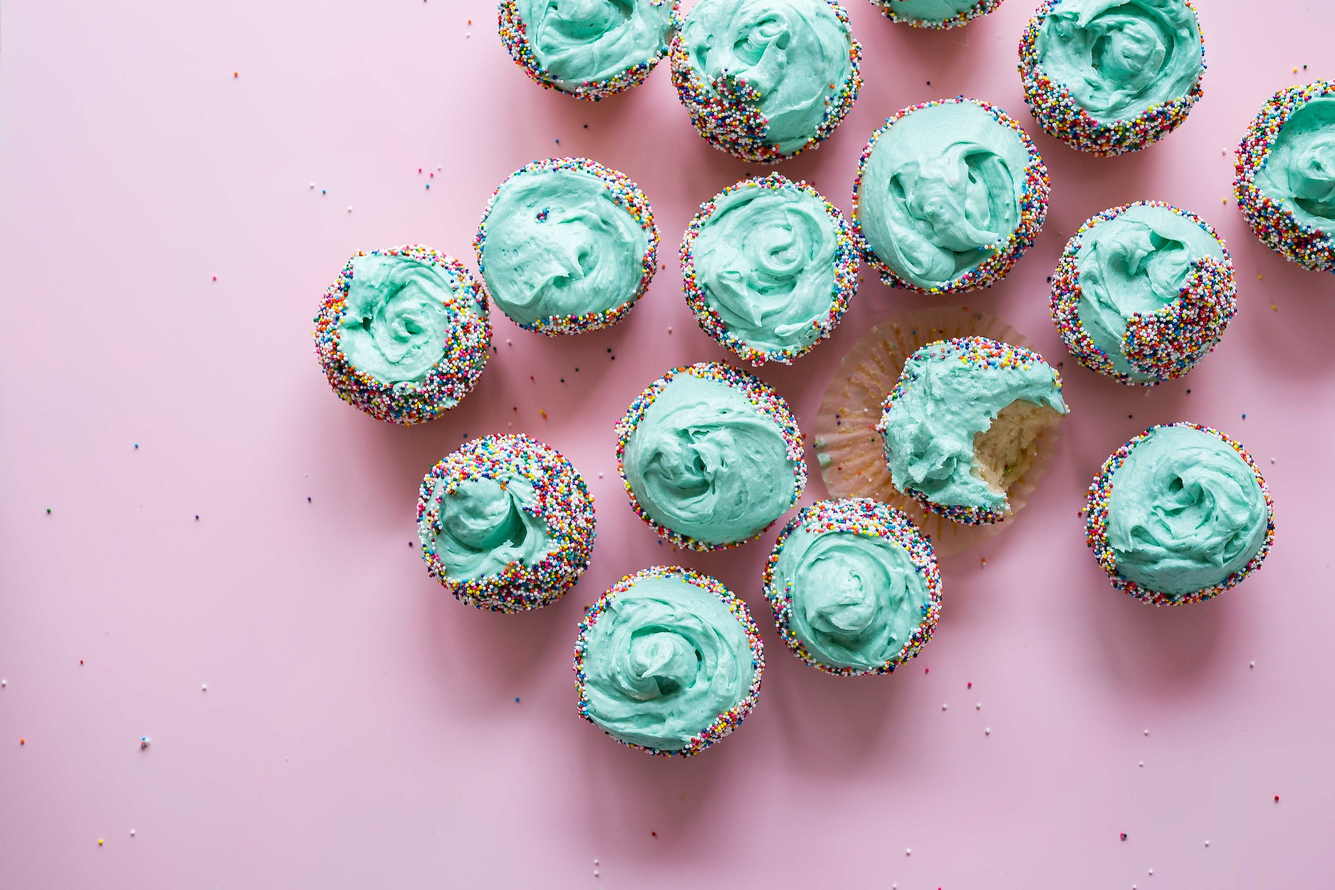
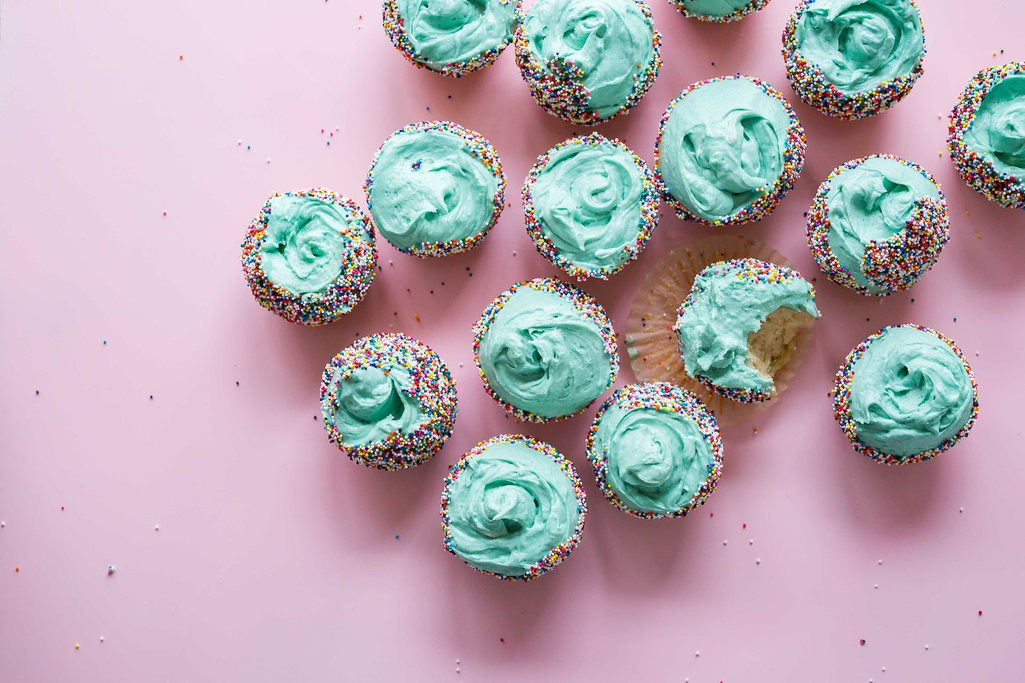
optimized page speed by prioritizing resources with preconnect/prefetch, resized gallery

diff --git a/src/components/common/socialLinks.jsx b/src/components/common/socialLinks.jsx
@@ -3,14 +3,16 @@ import { FaFacebookF, FaInstagram, FaTwitter } from 'react-icons/fa'
 import { SiteMetadata } from './siteMetadata'
 
 const SocialLinks = () => {
-  const { social } = SiteMetadata()
+  const {
+    social: { twitter, facebook, instagram },
+  } = SiteMetadata()
 
   return (
     <ul className="list-inline list-unstyled">
       <li className="list-inline-item">
         <a
-          aria-label={social.twitter}
-          href={social.twitter}
+          aria-label={`Visit ${twitter}`}
+          href={twitter}
           target="_blank"
           rel="noopener noreferrer"
           className="list-social p-2"
@@ -20,8 +22,8 @@ const SocialLinks = () => {
       </li>
       <li className="list-inline-item">
         <a
-          aria-label={social.facebook}
-          href={social.facebook}
+          aria-label={`Visit ${facebook}`}
+          href={facebook}
           target="_blank"
           rel="noopener noreferrer"
           className="list-social p-2"
@@ -31,8 +33,8 @@ const SocialLinks = () => {
       </li>
       <li className="list-inline-item">
         <a
-          aria-label={social.instagram}
-          href={social.instagram}
+          aria-label={`Visit ${instagram}`}
+          href={instagram}
           target="_blank"
           rel="noopener noreferrer"
           className="list-social p-2"

diff --git a/src/components/home/gallery.jsx b/src/components/home/gallery.jsx
@@ -11,7 +11,7 @@ const Gallery = () => {
       all: allFile(filter: { relativeDirectory: { eq: "gallery" } }) {
         nodes {
           childImageSharp {
-            fluid(quality: 80, maxHeight: 190) {
+            fluid(quality: 80, maxWidth: 1920) {
               ...GatsbyImageSharpFluid_withWebp
             }
           }
@@ -25,7 +25,7 @@ const Gallery = () => {
       ) {
         nodes {
           childImageSharp {
-            fluid(quality: 80, maxHeight: 190) {
+            fluid(quality: 80, maxWidth: 1920) {
               ...GatsbyImageSharpFluid_withWebp
             }
           }
@@ -39,7 +39,7 @@ const Gallery = () => {
       ) {
         nodes {
           childImageSharp {
-            fluid(quality: 80, maxHeight: 190) {
+            fluid(quality: 80, maxWidth: 1920) {
               ...GatsbyImageSharpFluid_withWebp
             }
           }
@@ -53,7 +53,7 @@ const Gallery = () => {
       ) {
         nodes {
           childImageSharp {
-            fluid(quality: 80, maxHeight: 190) {
+            fluid(quality: 80, maxWidth: 1920) {
               ...GatsbyImageSharpFluid_withWebp
             }
           }

diff --git a/src/components/layout/seo.jsx b/src/components/layout/seo.jsx
@@ -48,7 +48,10 @@ function SEO({ description, lang, meta, title }) {
           content: metaDescription,
         },
       ].concat(meta)}
-    />
+    >
+      <link rel="preconnect" href="https://cdn.snipcart.com" crossorigin />
+      <link rel="dns-prefetch" href="https://cdn.snipcart.com" />
+    </Helmet>
   )
 }
 

diff --git a/src/components/home/banner.jsx b/src/components/home/banner.jsx
@@ -7,7 +7,7 @@ const Banner = () => {
     query Banner {
       file(relativePath: { eq: "images/home-info.jpg" }) {
         childImageSharp {
-          fluid(quality: 80, maxWidth: 450) {
+          fluid(quality: 80, maxWidth: 1920) {
             ...GatsbyImageSharpFluid
           }
         }

diff --git a/src/components/header/navBar.jsx b/src/components/header/navBar.jsx
@@ -39,6 +39,7 @@ const NavBar = ({ isCollapsed, toggleCollapse }) => {
           ))}
           <li className="nav-item">
             <a
+              aria-label="Toggle Cart"
               href="/"
               target="_blank"
               rel="noopener noreferrer"
